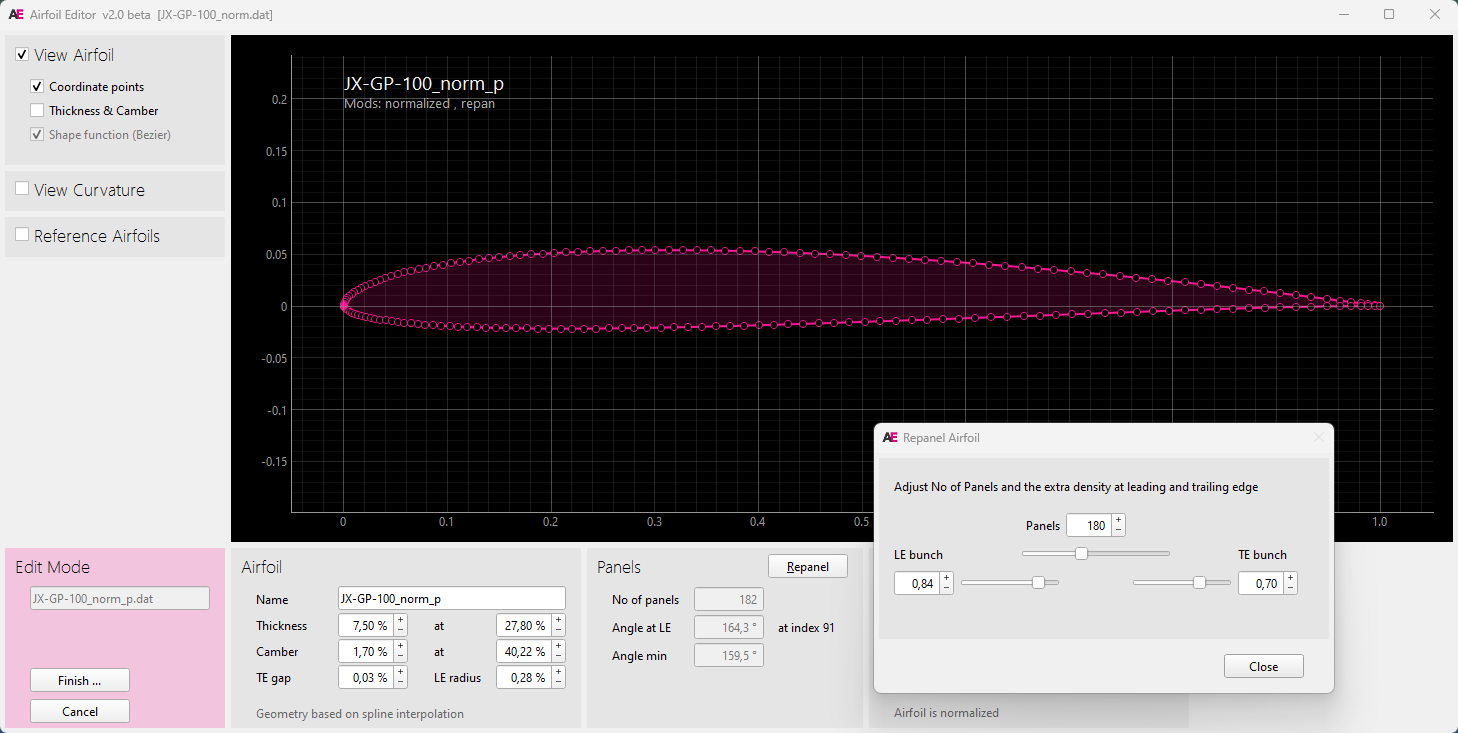
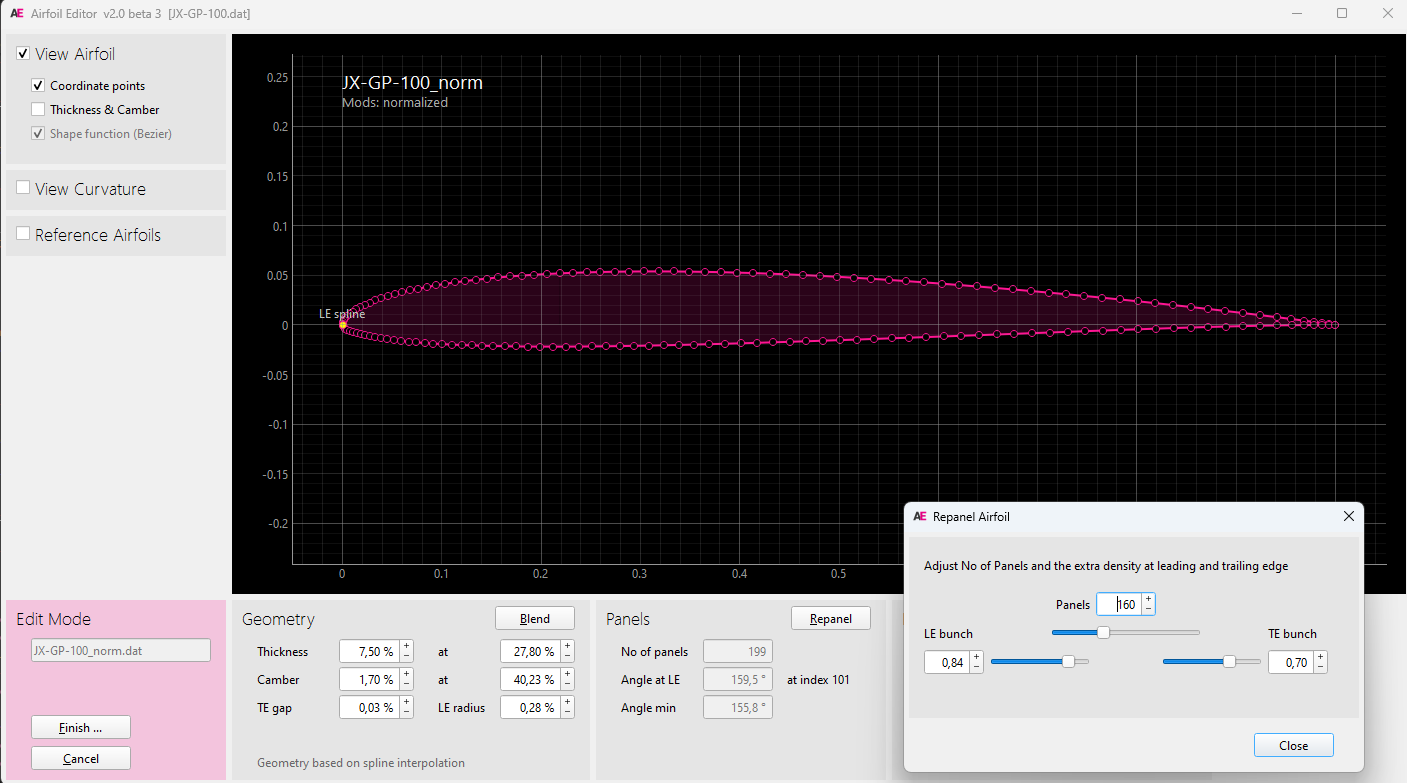
preparing beta 3

diff --git a/modules/airfoil_test.py b/modules/airfoil_test.py
@@ -87,7 +87,7 @@ class Test_Airfoil:
         # thickness, camber 
 
         assert geo.thickness._get_maximum() == (0.2903512, 0.076502)
-        assert geo.camber._get_maximum()    == (0.4152478, 0.0170127)
+        assert geo.camber._get_maximum()    == (0.4152475, 0.0170127)
 
         geo.set_max_thick  (0.08)
         assert round(geo.max_thick,4) == 0.08
@@ -257,16 +257,16 @@ class Test_Airfoil_Bezier:
 
         # base data 
 
-        assert airfoil.nPoints == 201
-        assert airfoil.nPanels == 200
+        assert airfoil.nPoints == 161
+        assert airfoil.nPanels == 160
         assert airfoil.isNormalized       
         assert airfoil.geo.te_gap == 0.0
         assert geo.le_real == (0.0, 0.0)
 
         # u default distribution  
 
-        assert len(geo.upper._u) == 101
-        assert round(sum(geo.upper._u),6) == 50.732829
+        assert len(geo.upper._u) == 81
+        assert round(sum(geo.upper._u),6) == 40.688019
 
         # eval y on u
 
@@ -291,8 +291,8 @@ class Test_Airfoil_Bezier:
         
         # thickness, camber 
 
-        assert geo.thickness._get_maximum() == (0.3140345, 0.111065)
-        assert geo.camber._get_maximum()    == (0.3973174, 0.014023)
+        assert geo.thickness._get_maximum() == (0.3140431, 0.1110653)
+        assert geo.camber._get_maximum()    == (0.3974017, 0.0140231)
 
         with pytest.raises(NotImplementedError):
             geo.set_maxThick  (0.08)

diff --git a/modules/model/airfoil_geometry.py b/modules/model/airfoil_geometry.py
@@ -358,7 +358,7 @@ class Panelling_Bezier (Panelling_Abstract):
         return u 
 
 
-    def new_u (self, u_current : np.ndarray|None, nPanels : int|None = None ):
+    def new_u (self, nPanels : int|None = None ):
         """ 
         Returns new panel distribution u of a Bezier airfoil upper and lower side  
             - 'nPanels' will overwrite the default self.nPanels    
@@ -3040,8 +3040,6 @@ class Geometry_HicksHenne (Geometry):
         """ number of coordinate points"""
         return len (self.upper.x) + len (self.lower.x) - 1
 
-
-    # ------------------ private ---------------------------
 
 
 

diff --git a/AirfoilEditor.py b/AirfoilEditor.py
@@ -59,7 +59,7 @@ logger.setLevel(logging.DEBUG)
 # ------ globals -----
 
 AppName    = "Airfoil Editor"
-AppVersion = "2.0 beta 2"
+AppVersion = "2.0 beta 3"
 
 Main : 'App_Main' = None 
 
